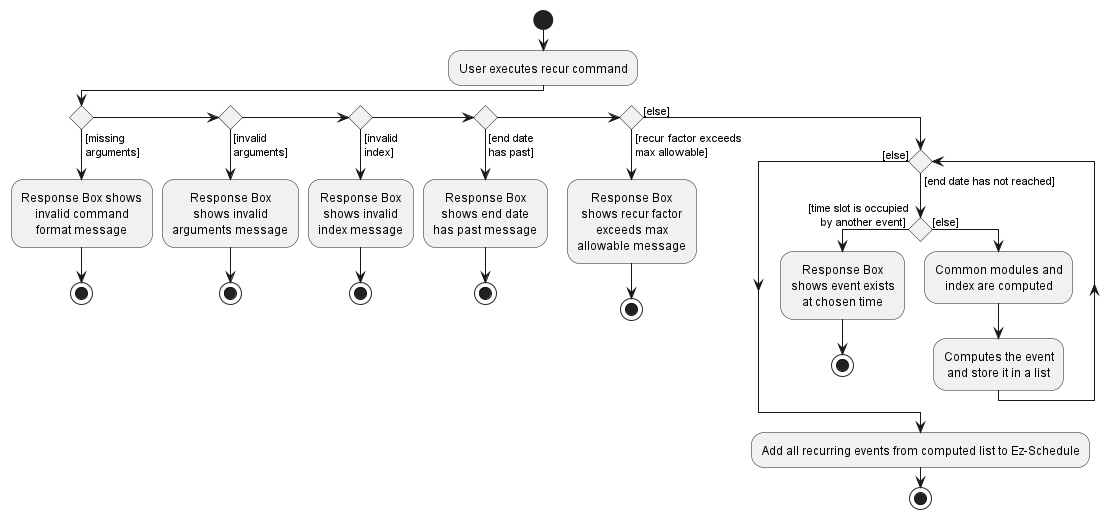
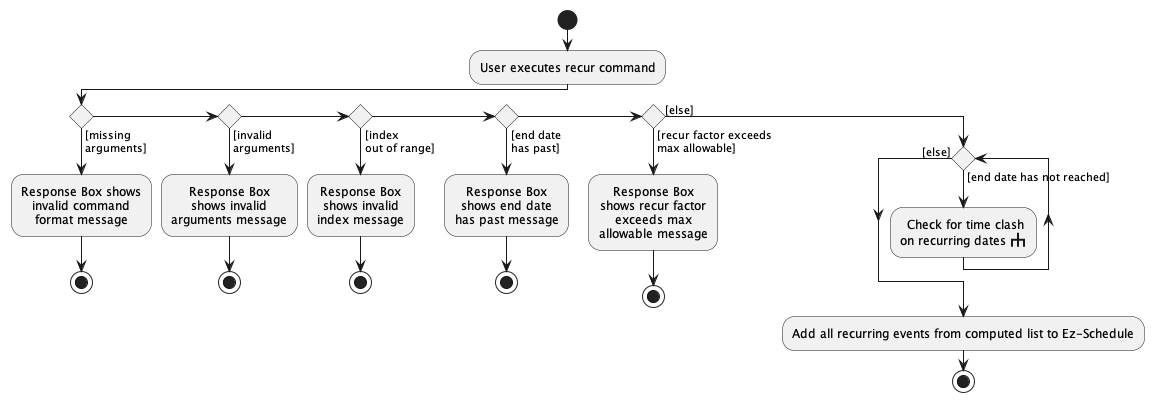
Update RecurCommand implementation

diff --git a/docs/DeveloperGuide.md b/docs/DeveloperGuide.md
@@ -175,12 +175,14 @@ Classes used by multiple components are in the `ezschedule.commons` package.
 ## **Implementation**
 
 --------------------------------------------------------------------------------------------------------------------
+EZ-Schedule mainly follows the Command design pattern. Elaboration on how the application parses commands is given in the
+_Architecture_ section above.
+
 This section describes some noteworthy details on how certain features are implemented.
 
 ### **Add Command**
 
-EZ-Schedule mainly follows the Command design pattern. Elaboration on how the application parses commands is given in the 
-_Architecture_ section above. For _Add_ command, the noteworthy classes are:
+For _Add_ command, the noteworthy classes are:
 - `AddCommandParser.java` - For parsing the arguments to `AddCommand.java`.
 - `AddCommand.java` - For execution.
 
@@ -216,8 +218,42 @@ The execution can be seen in the activity diagram given below.
 
 ### **Recur Command**
 
+For _Recur_ command, the noteworthy classes are:
+- `RecurCommandParser.java` - For parsing the arguments to `RecurCommand.java`.
+- `RecurCommand.java` - For execution.
+
+The following exceptions may be thrown during this process, namely:
+- ParseException for missing arguments
+- ParseException for invalid arguments
+- ParseException for index out of range
+- CommandException for end dates in the past
+- CommandException for recur factor exceeding max allowable
+
+Given below is an example usage scenario of how the _Recur_ command executes.
+
+-- user input -- <br>
+Step 1. User executes Recur command with correct and valid arguments.<br>
+
+-- `SchedulerParser` -- <br>
+Step 2. Returns new `RecurCommandParser`.<br>
+
+-- `RecurCommandParser` -- <br>
+Step 3. Verify that all argument prefixes are present.<br>
+Step 4. Verify that all argument format is valid.<br>
+Step 5. Returns new `RecurCommand`.<br>
+
+-- `RecurCommand` -- <br>
+Step 6. Verify that the given index exist in Ez-Schedule.<br>
+Step 7. Verify that the given recurring end time is not in the past.<br>
+Step 8. For the given recur factor, verify that it is valid.<br>
+Step 9. Check all dates for event to be recurred on for any event clash.<br>
+Step 10. Add event into Ez-Schedule on all dates to be recurred.<br>
+
+The execution, with Step 9 in further detail, can be seen in the activity diagrams given below.
+
 ![RecurCommandActivityDiagram.png](images/RecurCommandActivityDiagram.png)
-Activity Diagram for a typical `recur` command
+
+![RecurCommandRecurringAddActivityDiagram.png](images/RecurCommandRecurringAddActivityDiagram.png)
 
 ### **Edit Command**
 
